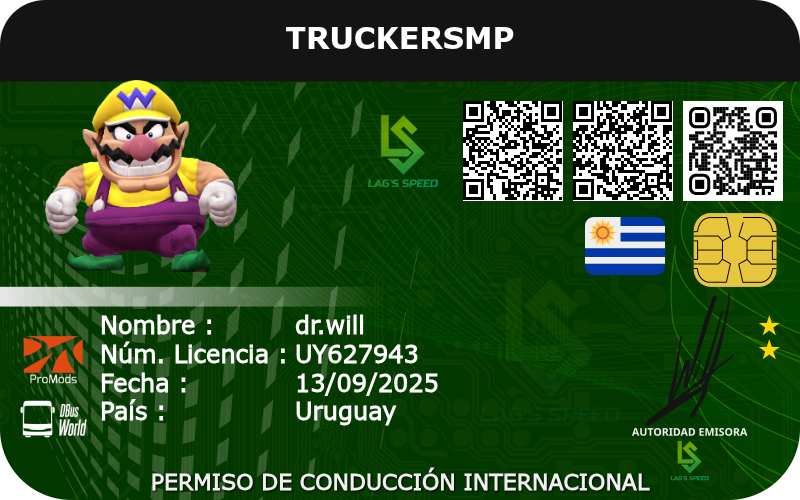
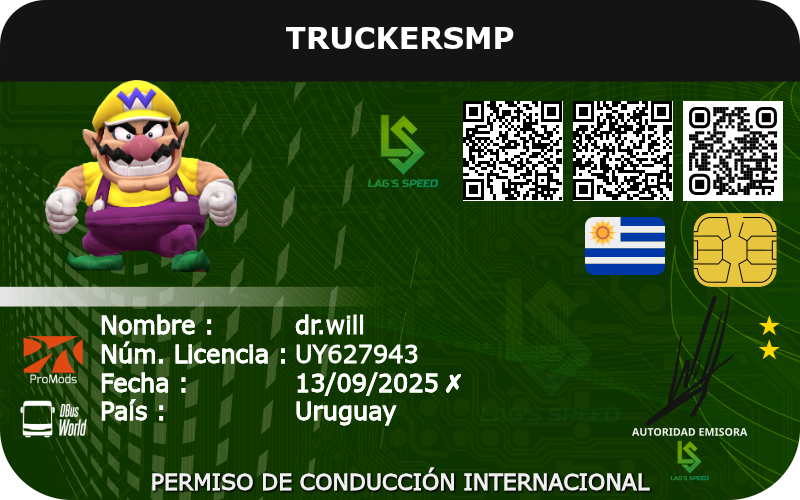
update

diff --git a/pages/idt.html b/pages/idt.html
@@ -49,6 +49,13 @@
     }
     .toggle-item {margin:5px 0;}
     .toggle-item input[type="checkbox"] {margin-right:5px;}
+    /* Estilos para el grupo de toggles en la misma línea */
+    .toggle-group {
+      display: flex;
+      gap: 20px;
+      align-items: center;
+      margin: 5px 0;
+    }
     /* Estilos para el canvas de la licencia */
     canvas {border:1px solid #000;display:block;max-width:100%;height:auto;}
     #preview {flex:1;text-align:center;}
@@ -147,7 +154,7 @@
           <option value="CN|🇨🇳|China|China|China">🇨🇳 China</option>
           <option value="CO|🇨🇴|Colombia|Colombia|Colômbia">🇨🇴 Colombia</option>
           <option value="CU|🇨🇺|Cuba|Cuba|Cuba">🇨🇺 Cuba</option>
-          <option value="DE|🇩🇪|Alemania|Germany|Alemanha">🇩🇪 Alemania</option>
+          <option value="DE|🇩🇪|Alemania|Germany|Alemanha">🇦🇩 Alemania</option>
           <option value="EC|🇪🇨|Ecuador|Ecuador|Equador">🇪🇨 Ecuador</option>
           <option value="ES|🇪🇸|España|Spain|Espanha">🇪🇸 España</option>
           <option value="FR|🇫🇷|Francia|France|França">🇫🇷 Francia</option>
@@ -222,15 +229,18 @@
         <label for="titleToggle" id="titleToggleLabel">Usar título cómico:</label><br>
         <input type="checkbox" id="titleToggle">
       </div>
-      <!-- Checkbox para incluir logo de ProMods -->
-      <div class="toggle-item">
-        <label for="promodsToggle">ProMods:</label><br>
-        <input type="checkbox" id="promodsToggle">
-      </div>
-      <!-- Checkbox para incluir logo de DBusWorld -->
-      <div class="toggle-item">
-        <label for="dbusworldToggle">DBUS:</label><br>
-        <input type="checkbox" id="dbusworldToggle">
+      <!-- Grupo de toggles para ProMods y DBusWorld -->
+      <div class="toggle-group">
+        <!-- Checkbox para incluir logo de ProMods -->
+        <div class="toggle-item">
+          <label for="promodsToggle">ProMods:</label>
+          <input type="checkbox" id="promodsToggle">
+        </div>
+        <!-- Checkbox para incluir logo de DBusWorld -->
+        <div class="toggle-item">
+          <label for="dbusworldToggle">DBUS:</label>
+          <input type="checkbox" id="dbusworldToggle">
+        </div>
       </div>
     </div>
     <!-- Área de vista previa con canvas, deslizador de tono y botón de descarga -->
@@ -418,7 +428,7 @@
     const truckersmpStatus = document.getElementById("truckersmpStatus");
     const companyLinkStatus = document.getElementById("empresaLinkStatus");
     const nicknameGroup = document.getElementById("nicknameGroup");
-    const titleToggleGroup = document.getElementById("titleToggleGroup"); // Referencia al grupo del checkbox
+    const titleToggleGroup = document.getElementById("titleToggleGroup");
     const titleToggleInput = document.getElementById("titleToggle");
     const promodsToggleInput = document.getElementById("promodsToggle");
     const dbusworldToggleInput = document.getElementById("dbusworldToggle");
@@ -433,6 +443,7 @@
     let isNicknameUnlocked = localStorage.getItem("nicknameUnlocked") === "true"; // Estado del desbloqueo del TAG épico
     let currentDate = null; // Caché de la fecha actual
     let lastDateFetch = 0; // Timestamp del último fetch de fecha
+    let isDateFromInternet = false; // Indicador de si la fecha proviene de internet
     const DATE_CACHE_DURATION = 180000; // Duración del caché de fecha (3 minutos)
     let currentLanguage = "es"; // Idioma actual
     let lastFormState = {}; // Estado anterior del formulario para evitar redibujar innecesariamente
@@ -492,12 +503,14 @@
           const { day, month, year } = api.parse(data);
           currentDate = `${day}/${month}/${year}`;
           lastDateFetch = now;
+          isDateFromInternet = true; // Fecha obtenida de internet
           return currentDate;
         } catch (error) {}
       }
       const date = new Date();
       currentDate = `${date.getDate().toString().padStart(2, "0")}/${(date.getMonth() + 1).toString().padStart(2, "0")}/${date.getFullYear()}`;
       lastDateFetch = now;
+      isDateFromInternet = false; // Fecha obtenida localmente
       return currentDate;
     }
 
@@ -609,7 +622,7 @@
         localStorage.setItem("nicknameUnlocked", "true");
       }
       nicknameGroup.classList.toggle("hidden", !isNicknameUnlocked);
-      titleToggleGroup.classList.toggle("hidden", !isNicknameUnlocked); // Mostrar u ocultar el checkbox de título cómico
+      titleToggleGroup.classList.toggle("hidden", !isNicknameUnlocked);
       const companyLink = companyLinkInput.value.trim();
       const colorMap = {
         "https://truckersmp.com/vtc/78865": 260,
@@ -781,6 +794,8 @@
         if (licenseNumber) ctx.fillText(licenseNumber, config.textX, config.textY + lineHeight);
       }
       ctx.fillText(currentDateStr, config.textX, config.textY + lineHeight * 2);
+      // Dibuja el indicador de fuente de fecha (✓ o ✗)
+      ctx.fillText(isDateFromInternet ? "✓" : "✗", config.textX + ctx.measureText(currentDateStr).width + 5, config.textY + lineHeight * 2);
       ctx.fillText(countryName, config.textX, config.textY + lineHeight * 3);
       if (isNicknameUnlocked && nickname) ctx.fillText(nickname, config.textX, config.textY + lineHeight * 4);
 
